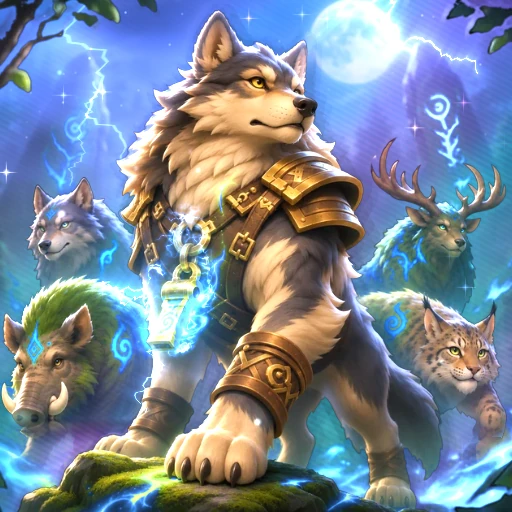
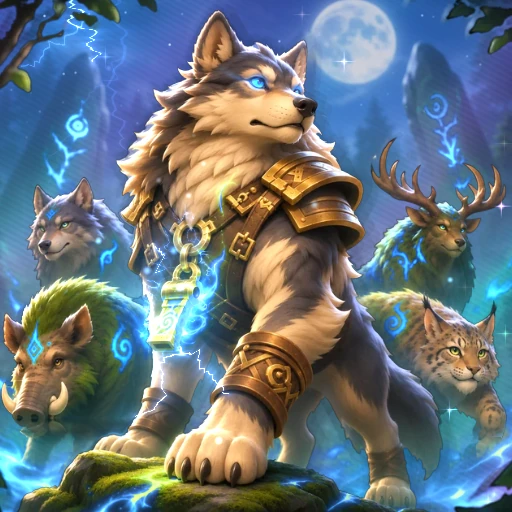
concept: Stormlight Kennelmaster calmer, blue eyes

diff --git a/packages/ui/src/skins/livingArt.ts b/packages/ui/src/skins/livingArt.ts
@@ -45,7 +45,7 @@ float bolt(vec2 p, vec2 a, vec2 b, float s, float amp, float w) {
   return (1. - smoothstep(thin * .25, thin, q)) + exp(-q / (thin * 4.5)) * .55 + exp(-q / (thin * 18.)) * .20;
 }
 // a strike: how bright it is now, and which one
-float struck(float period, float ph, out float id) { float x = T / period + ph; id = floor(x); float t = fract(x) * period; return (exp(-t * 11.) + .85 * exp(-abs(t - .15) * 34.) + .5 * exp(-abs(t - .29) * 26.)) * step(t, .75); }
+float struck(float period, float ph, out float id) { float x = T / period + ph; id = floor(x); float t = fract(x) * period; return smoothstep(0., .07, t) * (exp(-t * 4.2) * .8 + .22 * exp(-abs(t - .34) * 9.)) * step(t, 1.4); }
 #else
 vec3 G(vec3 c) { return c; }
 vec3 paint(vec3 c, float strict) { return c; }
@@ -105,22 +105,22 @@ void main() {
   c = mix(c, vec3(.035, .05, .13) + c * .22, (.34 + .58 * smoothstep(.34, .72, cl)) * sky);
   float lit = 0.;
   for (int i = 0; i < 3; i++) {
-    float id, f = struck(i == 0 ? 2.3 : i == 1 ? 3.7 : 5.9, i == 0 ? .1 : i == 1 ? .55 : .3, id);
+    float id, f = struck(i == 0 ? 5.3 : i == 1 ? 8.9 : 14.3, i == 0 ? .1 : i == 1 ? .55 : .3, id);
     if (f > .004) {
       float r = h2(vec2(id, float(i) * 7. + 2.)), s = id * 3.7 + float(i) * 11.;
       vec2 to = r < .22 ? vec2(.185, .125) : r < .44 ? vec2(.797, .105) : r < .60 ? vec2(.725, .36) : r < .74 ? vec2(.245, .33) : r < .87 ? vec2(.94, .34) : vec2(.065, .34);
       vec2 from = vec2(to.x + (h2(vec2(id, 4.)) - .5) * .34, -.04);
       vec2 mid = mix(from, to, .42 + .2 * h2(vec2(id, 8.)));
       vec2 side = vec2(to.x + (h2(vec2(id, 12.)) < .5 ? -1. : 1.) * (.10 + .10 * h2(vec2(id, 13.))), mix(mid.y, to.y, .9) + .05);
-      float bl = bolt(uv, from, to, s, .095, .0082) + bolt(uv, mid, side, s + 40., .06, .0046) * .8;
+      float bl = bolt(uv, from, to, s, .085, .0058) + bolt(uv, mid, side, s + 40., .05, .0034) * .6;
       lit += bl * f;
       flash += f;
       c += vec3(.5, .7, 1.) * m.r * f * step(r, .44) * step(0., (to.x - .5) * (g.x - .5)) * .9;       // the stone it struck flares
     }
   }
-  flash = min(flash, 1.2);
+  flash = min(flash, 1.) * .5;
   c += vec3(.36, .46, .95) * flash * (.20 + .9 * smoothstep(.3, .8, cl)) * sky;
-  c += (vec3(.40, .60, 1.) * lit + vec3(.9, .95, 1.) * smoothstep(.6, 1.3, lit)) * 1.1;
+  c += (vec3(.36, .56, 1.) * lit + vec3(.7, .8, .9) * smoothstep(.6, 1.3, lit)) * .85;
 #endif
   // mist drifting behind the pack
   float mist = fbm(vec2(uv.x * 3.2 - T * .085, uv.y * 5.5 + T * .03)) ;
@@ -155,6 +155,15 @@ void main() {
   float flick = .75 + .25 * sin(T * 9.) * sin(T * 13.7 + 1.) + .2 * (fbm(vec2(T * 2.4, 3.)) - .5);
   hc += G(vec3(.16, .75, .22)) * bump(uv, vec2(.345, .60), vec2(.13, .17)) * .30 * flick;
   hc += vec3(.42, .56, 1.) * pow(hm.g, 1.6) * (1. - smoothstep(.62, .74, k.x) * smoothstep(.66, .74, k.y)) * flash * .55 + hc * vec3(.6, .8, 1.3) * flash * .10;
+#ifdef STORM
+  vec2 e1 = (k - vec2(.5045, .1655)), e2 = (k - vec2(.5795, .1830));
+  float i1 = exp(-dot(e1 / vec2(.0120, .0105), e1 / vec2(.0120, .0105))), i2 = exp(-dot(e2 / vec2(.0072, .0088), e2 / vec2(.0072, .0088)));
+  float gold = smoothstep(.06, .28, hc.r - hc.b);                                          // the iris only: the pupil and the glint stay
+  float eyeP = .82 + .18 * sin(T * 1.7);
+  hc = mix(hc, vec3(.16, .52, 1.) * (.45 + 1.1 * hc.g) * 1.15, min(1., (i1 + i2) * 1.6) * gold);
+  hc += vec3(.16, .46, 1.) * (exp(-length(e1 / vec2(1.25, 1.)) / .0125) * .75 + exp(-length(e2) / .0085) * .6) * eyeP;
+  hc += vec3(.55, .80, 1.) * (smoothstep(.0048, .0, length(e1 - vec2(.0025, .0015))) + smoothstep(.0032, .0, length(e2))) * .35 * eyeP;
+#endif
   c = mix(c, hc, hs.a);
 
   // ── THE FLAME ──
@@ -174,21 +183,21 @@ void main() {
   c += G(vec3(.10, .55, .16)) * bump(uv, vec2(.335, .57), vec2(.10, .15)) * .24 * flick;
 #ifdef STORM
   // the current: filaments crawling over the whistle and up the flame, and arcs jumping from it to whatever is near
-  vec2 cr = uv * 15. + vec2(0., T * .9);
-  float r1 = 1. - abs(2. * fbm(cr + fbm(cr * 1.4 + T * .8) * 1.3) - 1.), r2 = 1. - abs(2. * fbm(cr * 1.9 - vec2(T * 1.3, T * .4)) - 1.);
+  vec2 cr = uv * 15. + vec2(0., T * .5);
+  float r1 = 1. - abs(2. * fbm(cr + fbm(cr * 1.4 + T * .4) * 1.3) - 1.), r2 = 1. - abs(2. * fbm(cr * 1.9 - vec2(T * .6, T * .2)) - 1.);
   float fil = (pow(r1, 13.) + .8 * pow(r2, 15.)) * smoothstep(.16, .6, texture(hd, uv).b + texture(hd, uv + vec2(.03, 0.)).b * .4 + texture(hd, uv - vec2(.03, 0.)).b * .4);
-  float strobe = .6 + .4 * step(.35, h1(floor(T * 17.)));
+  float strobe = .8 + .2 * sin(T * 3.1) * sin(T * 4.7 + 1.);
   fil *= mix(1., .22, smoothstep(.45, .85, body));
-  c += (vec3(.14, .42, 1.) + vec3(.5, .42, .2) * smoothstep(.45, 1., fil)) * fil * 1.05 * strobe;
+  c += (vec3(.14, .42, 1.) + vec3(.5, .42, .2) * smoothstep(.45, 1., fil)) * fil * .8 * strobe;
   float arcs = 0.;
-  for (int i = 0; i < 6; i++) {
-    float fi = float(i), tk = T * (7.5 + fi * .7) + fi * 3.3, id = floor(tk), e = fract(tk);
-    if (h2(vec2(id, fi)) < .30) continue;
+  for (int i = 0; i < 3; i++) {
+    float fi = float(i), tk = T * (2.1 + fi * .37) + fi * 3.3, id = floor(tk), e = fract(tk);
+    if (h2(vec2(id, fi)) < .38) continue;
     float ra = h2(vec2(id, fi + 20.)), rb = h2(vec2(id, fi + 31.));
     vec2 a = mix(vec2(.305, .665), vec2(.395, .575), ra);
     float w = h2(vec2(id * .37, fi + 44.));
     vec2 b = w < .16 ? vec2(.40, .40) : w < .30 ? vec2(.285, .46) : w < .46 ? vec2(.49, .47) : w < .62 ? vec2(.52, .61) : w < .76 ? vec2(.215, .56) : w < .90 ? vec2(.44, .78) : vec2(.28, .80);
-    arcs += bolt(uv, a, b + (vec2(rb, ra) - .5) * .045, id * 1.7 + fi * 9., .075, .0050) * (1. - e * .7);
+    arcs += bolt(uv, a, b + (vec2(rb, ra) - .5) * .045, id * 1.7 + fi * 9. + floor(e * 3.), .055, .0032) * smoothstep(0., .12, e) * (1. - smoothstep(.35, .95, e)) * .8;
   }
   float near2 = smoothstep(.30, .85, body);                 // where they all leave from: the whistle itself must be seen
   arcs *= mix(1., .16, near2);
@@ -201,6 +210,11 @@ void main() {
     float r = .0055 * (1. - l * .6);
     c += G(vec3(.6, 1., .45)) * smoothstep(r * 2.4, 0., length(uv - sp2)) * smoothstep(0., .08, l) * (1. - l) * 1.2;
   }
+#ifdef STORM
+  vec2 ew = uv - vec2(.5045, .1655); float back = clamp(-ew.x / .085, 0., 1.);
+  float wisp = exp(-pow((ew.y + back * back * .030 - (fbm(vec2(ew.x * 30. + T * .9, T * .5)) - .5) * .022 * back) / (.0045 + .004 * back), 2.)) * step(ew.x, 0.) * smoothstep(0., .12, back) * (1. - back) * (.5 + .5 * fbm(vec2(ew.x * 46. + T * 1.6, 2.)));
+  c += vec3(.22, .55, 1.) * wisp * .75;
+#endif
   // fireflies, some behind (dimmer, small), some near
   for (int i = 0; i < 12; i++) {
     float s = float(i) + 20., z = h1(s * 1.7);
